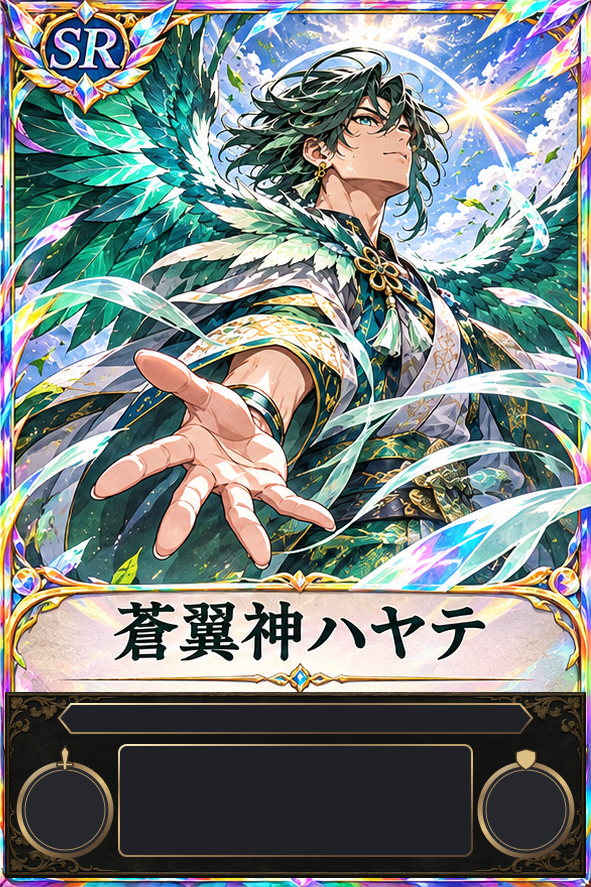
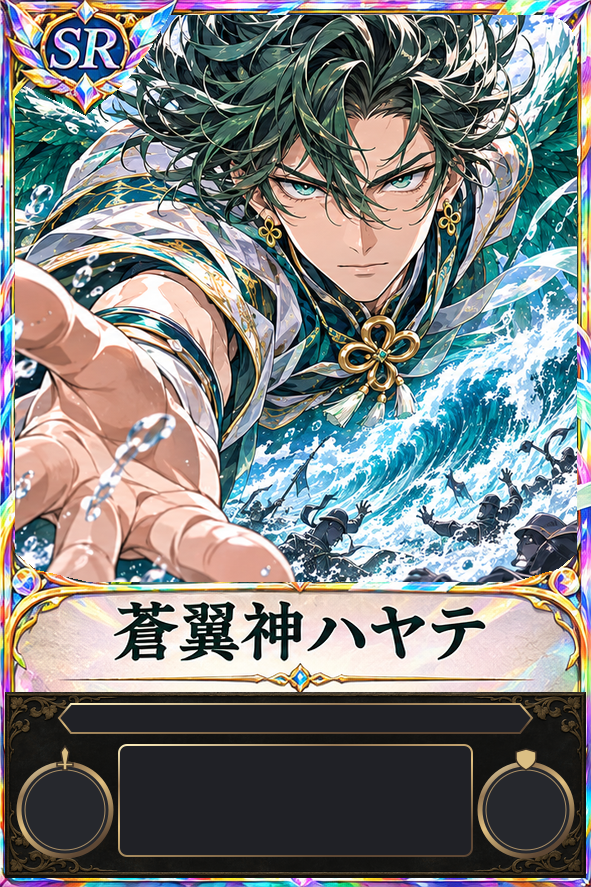
主神5柱：新イラスト15枚に差し替え、色の役割に合わせた新効果（結界・雷壁・天守／獅子王／水縛り・渦巻・天潮／芽吹き・樹脈・千樹／生贄の冥火・幽冥）
Claude-Session: https://claude.ai/code/session_01NjDefky3kmAgjasUb6fgAf

diff --git a/kamigami/godcards.js b/kamigami/godcards.js
@@ -8,31 +8,34 @@ const STAGE_RULE=[
  '進化：ゲージ{gauge}＋神力{cost}',   // N形態に表示
  '覚醒：神殿が割れた後＋神力{cost}',  // R形態に表示
  '最終形態'];                        // SR形態に表示
-// fx の意味：bolt=雷撃のダメージ（神力cost・敵1体）／heal=芽吹きの回復量（神力cost・味方1体）／fox=冥火で下げる攻撃力（神力cost・敵1体）
+// 2026-11-28 主神の効果を色の役割に合わせて書き換え（天象＝守り／烈火＝バトル／奔流＝場のコントロール／大地＝神力ブースト／神秘＝墓地）
+// 新しい fx：barrier=結界の軽減量／wall=味方全体の常時軽減／shrineWall=自分の神殿への軽減／grow=神力の最大値を増やす量／selfHeal=自分の回復量
+//  pureSecond=2回目の攻撃で相手の『攻撃されたとき』の効果を受けない／bind=水縛り／swirl=渦巻／tide=天潮／sac=生贄の冥火のダメージ／doom=幽冥
+// （旧）fx の意味：bolt=雷撃のダメージ（神力cost・敵1体）／heal=芽吹きの回復量（神力cost・味方1体）／fox=冥火で下げる攻撃力（神力cost・敵1体）
 //  overflow=攻撃の余ったダメージが敵の主神へ／regen=自分のターンのはじめに味方全体を回復／extra=攻撃した相手への追加ダメージ
 //  attacks=1ターンの攻撃回数／second=2回目の攻撃力の減少量／haste=出たターンから攻撃／pierce='hero'（主神と神殿へすり抜け）・'all'
 //  shadow=影分身（自分への攻撃を1回ダメージ0）／shadowRevive=影分身が自分のターンのはじめに復活
 const GOD_CARDS={
  2:{key:'raiga',name:'ライガ',type:'天象',stages:[
-  {rank:'N',name:'幼神ライガ',atk:3,hp:8,skill:'雷撃',cost:1,fx:{bolt:2},text:'雷撃（神力{cost}）：敵1体に{bolt}ダメージ'},
-  {rank:'R',name:'雷鼓解放ライガ',atk:4,hp:11,skill:'轟雷',cost:1,fx:{bolt:3,overflow:true},text:'轟雷：攻撃の余ったダメージは敵の主神に届く。雷撃は{bolt}ダメージ'},
-  {rank:'SR',name:'天穿雷神ライガ',atk:6,hp:14,skill:'天穿',cost:1,fx:{bolt:4,overflow:true},text:'天穿：攻撃の余ったダメージは敵の主神に届く。雷撃は{bolt}ダメージ'}]},
+  {rank:'N',name:'幼神ライガ',atk:3,hp:8,skill:'結界',cost:1,fx:{barrier:1},text:'結界（神力{cost}）：味方1体は次の相手のターンまで、受けるダメージが{barrier}減る'},
+  {rank:'R',name:'雷鼓解放ライガ',atk:4,hp:11,skill:'雷壁',cost:1,fx:{barrier:2,wall:1},text:'雷壁：味方全体が受けるダメージを{wall}減らす。結界（神力{cost}）は、味方1体の受けるダメージを{barrier}減らす'},
+  {rank:'SR',name:'天穿雷神ライガ',atk:6,hp:14,skill:'天守',cost:1,fx:{barrier:2,wall:2,shrineWall:2},text:'天守：味方と自分の神殿が受けるダメージを{wall}減らす。結界（神力{cost}）は{barrier}減らす'}]},
  5:{key:'kodama',name:'コダマ',type:'大地',stages:[
-  {rank:'N',name:'幼神コダマ',atk:2,hp:10,skill:'芽吹き',cost:1,fx:{heal:2},text:'芽吹き（神力{cost}）：味方1体の体力を{heal}回復'},
-  {rank:'R',name:'樹脈解放コダマ',atk:3,hp:13,skill:'樹脈',fx:{regen:1},text:'樹脈：自分のターンのはじめに、味方全体の体力を{regen}回復'},
-  {rank:'SR',name:'万象樹神コダマ',atk:4,hp:17,skill:'千樹',fx:{regen:2},text:'千樹：自分のターンのはじめに、味方全体の体力を{regen}回復'}]},
+  {rank:'N',name:'幼神コダマ',atk:2,hp:10,skill:'芽吹き',cost:2,fx:{grow:1,selfHeal:0},text:'芽吹き（神力{cost}）：神力を{grow}増やす'},
+  {rank:'R',name:'樹脈解放コダマ',atk:3,hp:13,skill:'樹脈',cost:2,fx:{grow:1,selfHeal:2},text:'樹脈（神力{cost}）：神力を{grow}増やし、このカードの体力を{selfHeal}回復する'},
+  {rank:'SR',name:'万象樹神コダマ',atk:4,hp:17,skill:'千樹',cost:2,fx:{grow:1,selfHeal:3},text:'千樹（神力{cost}）：神力を{grow}増やし、このカードの体力を{selfHeal}回復する'}]},
  0:{key:'kagura',name:'カグラ',type:'烈火',stages:[
   {rank:'N',name:'幼神カグラ',atk:4,hp:6,skill:'火の拳',fx:{extra:1},text:'火の拳：攻撃した相手に追加で{extra}ダメージ'},
   {rank:'R',name:'炎拳解放カグラ',atk:5,hp:8,skill:'烈火連撃',fx:{attacks:2,second:2},text:'烈火連撃：1ターンに{attacks}回攻撃できる（2回目は攻撃力−{second}）'},
-  {rank:'SR',name:'熔獅神カグラ',atk:7,hp:10,skill:'獅子王',fx:{attacks:2,extra:2},text:'獅子王：1ターンに{attacks}回攻撃できる。攻撃した相手に追加で{extra}ダメージ'}]},
+  {rank:'SR',name:'熔獅神カグラ',atk:7,hp:10,skill:'獅子王',fx:{attacks:2,pureSecond:true},text:'獅子王：{attacks}回攻撃できる。2回目の攻撃では、相手の『攻撃されたとき』に発動する効果を受けない'}]},
  3:{key:'hayate',name:'ハヤテ',type:'奔流',stages:[
-  {rank:'N',name:'幼神ハヤテ',atk:3,hp:6,skill:'そよ風',fx:{haste:true},text:'そよ風：場に出たターンから攻撃できる'},
-  {rank:'R',name:'風翼解放ハヤテ',atk:4,hp:8,skill:'風渡り',fx:{haste:true,pierce:'hero'},text:'風渡り：出たターンから攻撃できる。すり抜け（神殿を無視して主神を攻撃できる）'},
-  {rank:'SR',name:'蒼翼神ハヤテ',atk:5,hp:11,skill:'天翔',fx:{haste:true,pierce:'all'},text:'天翔：出たターンから攻撃できる。すり抜け（神殿を無視して主神を攻撃できる）'}]},
+  {rank:'N',name:'幼神ハヤテ',atk:3,hp:6,skill:'水縛り',cost:1,fx:{bind:true},text:'水縛り（神力{cost}）：敵1体は、次の相手のターンに攻撃できない'},
+  {rank:'R',name:'風翼解放ハヤテ',atk:4,hp:8,skill:'渦巻',fx:{swirl:true},text:'渦巻：自分のターン開始時、敵の仲間1体は次の相手のターンに攻撃できない'},
+  {rank:'SR',name:'蒼翼神ハヤテ',atk:5,hp:11,skill:'天潮',fx:{tide:true},text:'天潮：自分のターン開始時、相手の仲間1体を手札に戻す'}]},
  10:{key:'oboro',name:'オボロ',type:'神秘',stages:[
-  {rank:'N',name:'幼神オボロ',atk:2,hp:7,skill:'冥火',cost:1,fx:{fox:1},text:'冥火（神力{cost}）：敵1体の攻撃力を、その敵が場を離れるまで−{fox}'},
-  {rank:'R',name:'魔紋解放オボロ',atk:3,hp:9,skill:'影分身',cost:1,fx:{fox:1,shadow:true},text:'影分身：自分への攻撃を1回だけ影に受けさせる（ダメージ0）'},
-  {rank:'SR',name:'幽冥魔神オボロ',atk:4,hp:12,skill:'幽冥',cost:1,fx:{fox:2,shadow:true,shadowRevive:true},text:'幽冥：影分身が自分のターンのはじめに復活する。冥火は−{fox}'}]}
+  {rank:'N',name:'幼神オボロ',atk:2,hp:7,skill:'生贄の冥火',cost:1,fx:{sac:2},text:'生贄の冥火（神力{cost}）：自分の仲間1体と、相手のカード1体に{sac}ダメージ。自分の仲間がいないと使えない'},
+  {rank:'R',name:'魔紋解放オボロ',atk:3,hp:9,skill:'生贄の冥火',cost:1,fx:{sac:3},text:'生贄の冥火（神力{cost}）：自分の仲間1体と、相手のカード1体に{sac}ダメージ。自分の仲間がいないと使えない'},
+  {rank:'SR',name:'幽冥魔神オボロ',atk:4,hp:12,skill:'幽冥',cost:3,fx:{doom:true},text:'幽冥（神力{cost}）：相手の仲間1体を破壊する。自分の墓地の仲間1体を手札に戻す'}]}
 };
 const HERO_IDS=[2,5,0,3,10];
 const STAGE_FILES=['01-child-N.webp','02-awakened-R.webp','03-final-SR.webp'];
@@ -52,7 +55,7 @@ function gcard(id,st,live,cls='',short=false){let s=stageOf(id,st),VL=VESSEL_LAY
  return '<span class="gc '+cls+'" data-id="'+id+'" data-st="'+st+'"><img src="'+cardImg(id,st)+'" alt="'+s.name+'" draggable="false"'+(window.__lazyImg?' loading="lazy"':'')+'>'+rubyBand(s.name,true)
  +statIcon('atk',atk,weak,null,VL&&VL.outer)
  +statIcon('hp',live?Math.max(0,live.hp):s.hp,false,live?live.max:null,VL&&VL.outer)
- +'<span class="gb eff" data-k="effect" style="'+pct(B.effect)+'"><i class="fit ml">'+(short?s.skill+(s.cost&&(s.fx.bolt||s.fx.heal||s.fx.fox)&&st===0?'（神力'+s.cost+'）':''):stageText(id,st))+'</i></span>'
+ +'<span class="gb eff" data-k="effect" style="'+pct(B.effect)+'"><i class="fit ml">'+(short?s.skill+(s.cost&&!s.fx.wall?'（神力'+s.cost+'）':''):stageText(id,st))+'</i></span>'
  +'<span class="gb evo" data-k="evolution" style="'+pct(B.evolution)+'"><i class="fit one" data-r=".9">'+ruleText(st)+'</i></span></span>'}
 function placeBoxes(gc){let B=CARD_LAYOUT.safeTextBoundsPx;gc.querySelectorAll('.gb').forEach(b=>{if(B[b.dataset.k])b.setAttribute('style',pct(B[b.dataset.k]))})}
 // 文字を安全範囲に収める：箱の高さから始めて、はみ出す間は小さくする
@@ -310,7 +313,7 @@ function expInfo(k){closeGodDetail();let e=EXP_CARDS[k],ally=e.kind==='ally';
  +(CARD_TABLE[k].later?'<p class="gd-next">このカードは、今の対戦デッキにはまだ入っていません。</p>':'')+termList(e.text+(ally?'仲間':''))
  +'<button class="gd-close" onclick="closeGodDetail()">閉じる</button></div></div>';
  d.onclick=e2=>{if(e2.target===d)closeGodDetail()};document.body.appendChild(d)}
-TERMS.push(['最終決戦','神殿がすべて割れた側は、主神が攻撃の対象になる。主神の体力を0にしたら勝ち。'],['すり抜け','神殿を無視して主神を攻撃できること。風翼解放ハヤテ・蒼翼神ハヤテ、雨の間の瀬渡りのカワセミ神、疾風の忍神、水面抜きの対象。'],['破殿解放','神殿が割れたとき、そのカードをコストなしで使えること。使わなければ手札に加わる。'],['召喚酔い','場に出たターンは攻撃できない状態。次の自分のターンから攻撃できる。主神もおたがい1ターン目は攻撃できない。'],['速攻','「出たターンから攻撃できる」効果。召喚酔いにならない。'],['登場時','その仲間を場に出したとき。'],['元の値','カードに書かれている攻撃力。弱める効果などで下がっていると「元の値より低い」状態になる。']);
+TERMS.push(['最終決戦','神殿がすべて割れた側は、主神が攻撃の対象になる。主神の体力を0にしたら勝ち。'],['すり抜け','神殿を無視して主神を攻撃できること。雨の間の瀬渡りのカワセミ神、疾風の忍神、水面抜きの対象。'],['破殿解放','神殿が割れたとき、そのカードをコストなしで使えること。使わなければ手札に加わる。'],['召喚酔い','場に出たターンは攻撃できない状態。次の自分のターンから攻撃できる。主神もおたがい1ターン目は攻撃できない。'],['速攻','「出たターンから攻撃できる」効果。召喚酔いにならない。'],['登場時','その仲間を場に出したとき。'],['元の値','カードに書かれている攻撃力。弱める効果などで下がっていると「元の値より低い」状態になる。']);
 
 // ---- 初期呪文8種：枠つき完成イラスト（2026-11-25差し替え）。名前帯はアート側、コスト・効果文は既存の重ね表示で載せる ----
 const STARTER_ART={rain:'amagoi',sun:'kumobarai',bolt:'shourai',guard:'shugo',draw:'shintaku',seed:'tanemaki',mirror:'kakusei_kagami',scroll:'shini_keishou'};
@@ -352,12 +355,18 @@ function rubyBand(name,hero){let r=readingOf(name);return r?'<span class="gb rub
 
 // ==== 「器」形式の主神カード（名前・レア度・上端の札は絵に描き込み済み、数値・効果文・進化条件の欄は空欄）2026-11-27 ====
 // オボロ3形態：新しい枠の空欄に合わせて、重ね表示の位置と大きさを変える（数値・効果は変えない）
-const VESSEL_LAYOUT={10:{
- safe:{effect:[146,742,304,80],evolution:[96,697,404,18]},
- outer:{attack:[36,744,92,92],health:[466,744,92,92]}}};
+// 2026-11-28 主神15枚を新しい絵に差し替え。5柱とも空欄が標準のレイアウト（cards/layout.json）と一致したので、オボロ専用の位置は外した
+const VESSEL_LAYOUT={};
 // 描き直しのとき、読み込み済みのカード絵（<img>）を使い回す（黒い一瞬・再読み込みを防ぐ。図鑑・デッキ編成用）
 function withImgReuse(fn){return function(){let old=new Map();for(const im of document.querySelectorAll('.gc>img')){if(!im.complete||!im.naturalWidth)continue;let k=im.getAttribute('src');if(!old.has(k))old.set(k,[]);old.get(k).push(im)}
  let r=fn.apply(this,arguments);if(old.size)for(const im of document.querySelectorAll('.gc>img')){let L=old.get(im.getAttribute('src'));if(L&&L.length){let o=L.shift();if(o!==im&&!o.isConnected){for(const at of im.attributes)if(at.name!=='src'&&o.getAttribute(at.name)!==at.value)o.setAttribute(at.name,at.value);im.replaceWith(o)}}}return r}}
 
 // 図鑑・デッキ編成を描くときだけ、画面外の絵は後から読む（対戦中は黒く見えるので使わない）
 function withLazy(fn){return function(){window.__lazyImg=true;try{return fn.apply(this,arguments)}finally{window.__lazyImg=false}}}
+
+// 2026-11-28 主神の新しい効果の用語
+TERMS.push(['結界','味方1体が、次の相手のターンが終わるまで、受けるダメージが減る。仲間・主神どちらにも使える。'],
+ ['水縛り','その神は、次の相手のターンに攻撃できない。'],
+ ['墓地','倒れた自分の仲間や、使った呪文が置かれる場所（対戦中だけ）。場の「墓地」をタップすると中身を見られる。'],
+ ['手札に戻す','場の仲間を、持ち主の手札に戻すこと。受けていたダメージや強化はなくなる。'],
+ ['神力を1増やす','神力の最大値が1増える。毎ターンの始めに回復する量も、この試合のあいだずっと1増える。']);

diff --git a/kamigami/arena.js b/kamigami/arena.js
@@ -679,3 +679,111 @@ document.addEventListener('DOMContentLoaded',()=>{if(typeof home==='function'&&!
 {const fc=finalCheck;let wait=null;finalCheck=function(force){if(!force&&!calm()&&subLog.length&&!ending&&[p,c].some(s=>s&&!s.shrines.length&&!s.finalShown)){if(!wait)wait=setTimeout(()=>{wait=null;finalCheck(true)},1600);return}
  let before=[p,c].map(s=>s&&s.finalShown);fc();if(!ending&&[p,c].some((s,i)=>s&&s.finalShown&&!before[i]))bgmFinal()}}
 {const sf=subFx;subFx=async function(){let r=await sf.apply(this,arguments);try{if(!ending&&!document.querySelector('.resultscreen'))finalCheck()}catch(e){}return r}}
+
+// ==== 主神の新しい効果（2026-11-28）：天象＝守り／烈火＝バトル／奔流＝場のコントロール／大地＝神力ブースト／神秘＝墓地 ====
+// 数値は godcards.js の GOD_CARDS（fx）だけで持つ。ここは仕組みだけ
+const ownerOf=v=>[p,c].find(s=>s&&s.units&&s.units.includes(v));
+// ダメージ軽減：ライガの常時軽減（雷壁・天守）＋結界（その味方1体、張った側の次のターン開始まで）
+function dmgCut(v){let s=ownerOf(v);if(!s)return 0;return (heroFx(s).wall||0)+(v.barrierN||0)}
+function cutName(v){let s=ownerOf(v),x=s?heroFx(s):{};return v.barrierN&&!x.wall?'結界':x.shrineWall?'天守':x.wall?(v.barrierN?'結界・雷壁':'雷壁'):'結界'}
+let zeroWhy='';
+{const h0=hurt;hurt=function(v,n){if(n>0){let cut=dmgCut(v);if(cut){let b=n;n=Math.max(0,n-cut);if(n===0){zeroWhy=cutName(v);return 0}}}return h0.call(this,v,n)}}
+// 攻撃の解決（軽減・天守・獅子王を入れた版。それ以外は元の処理と同じ）
+resolveStrike=function(f,u,d,v){let x=fxOf(f,u),wasWeak=v&&weakened(v)?Math.min(v.weak,v.atk):0;u.att=(u.att||0)+1;u.used=u.att>=maxAttacks(f,u)||!v||!!v.hero;let bonus=f.burst?1:0;f.burst=false;f.overflowHit=null;let hit=false;
+ let pow=atkOf(u)+bonus+(u.id==='earth-1'&&u.hp>=u.max?1:0)-(u.att===2&&x.second?x.second:0);pow=Math.max(0,pow);
+ // 獅子王：2回目の攻撃では、相手の『攻撃されたとき』に発動する効果を受けない（今のカードに該当する効果はない。追加されたら pure の間は発動させない）
+ const pure=!!(x.pureSecond&&u.att===2);f.pureHit=pure;
+ if(v){let dmg=pow+(x.extra||0),note='';zeroWhy='';
+  let cut=dmg>0?dmgCut(v):0;if(cut){let b=dmg;dmg=Math.max(0,dmg-cut);note='（'+cutName(v)+'で−'+(b-dmg)+'）';if(!dmg)zeroWhy=cutName(v)}
+  if(v.shadow&&dmg>0){v.shadow=false;dmg=0;note='（影分身で0）'}else if(v.ward&&dmg>0){v.ward=false;dmg=0;note='（守護で0）';zeroWhy='守護'}
+  v.hp-=dmg;hit=dmg>0;if(dmg>0)v.hitThisTurn=true;
+  let ca=hurt(u,atkOf(v));if(!ca&&atkOf(v)>0)note+=dmgCut(u)>=atkOf(v)?'（'+cutName(u)+'で反撃0）':'（守護で反撃0）';latest=names[u.id]+' → '+names[v.id]+'　'+dmg+'ダメージ・反撃 '+ca+note;f.hitInfo={v:dmg,u:ca};if(ca>0)u.hitThisTurn=true;settle(d,f)}
+ else{if(d.shrines.length){let sw=heroFx(d).shrineWall||0;
+   if(sw&&pow-sw<=0){zeroWhy='天守';latest='天守！ '+names[u.id]+'の攻撃（'+pow+'）を、神殿が受け止めた（−'+sw+'）'}
+   else{let lost=d.shrines.splice(0,1+bonus);d.broken=lost;d.shrineBroken=true;hit=true;latest=names[u.id]+'が神殿を破壊！'+(sw?'（天守−'+sw+'）':'');shrineLost(d)}}
+  else{ending=f===p?'勝利':'敗北';hit=true;lastReward=grantReward(f===p)}}
+ if(u.hero&&hit&&f.stage===0)f.gauge=Math.min(ASCEND.evolve.gauge,f.gauge+1);if(!ending)afterStrike(f,u,d,v,wasWeak);attacker=u.used||u.hp<=0?-1:attacker}
+// 0ダメージの吹き出し：理由（結界・雷壁・天守・守護）を出す
+{const pp=pop;pop=function(t){if((t==='影分身'||t==='守護')&&zeroWhy){arguments[0]=zeroWhy;zeroWhy=''}return pp.apply(this,arguments)}}
+// すり抜け：主神ハヤテは持たなくなった（仲間カードのすり抜けは残す）
+t_pierce=function(f,u){return !!u&&((u.id==='water-2'&&weather==='雨')||u.id==='water-6'||!!u.pierce)};
+
+// ---- 主神の技（1ターンに1回、神力を払う）----
+skillOf=function(f){let h=heroOf(f);if(!h||!GOD_CARDS[f.id])return null;let s=stageOf(f.id,f.stage),x=s.fx,cost=s.cost||1;
+ if(x.barrier)return {kind:'barrier',name:'結界',n:x.barrier,cost,side:'ally'};
+ if(x.bind)return {kind:'bind',name:s.skill,cost,side:'foe'};
+ if(x.grow)return {kind:'grow',name:s.skill,n:x.grow,heal:x.selfHeal||0,cost,side:'self'};
+ if(x.sac)return {kind:'sac',name:s.skill,n:x.sac,cost,side:'ally'};
+ if(x.doom)return {kind:'doom',name:s.skill,cost,side:'foe'};
+ return null};
+canSkill=function(f){let k=skillOf(f);if(!k||f.skillUsed||f.mp<k.cost)return false;let d=foeOf(f);
+ if(k.kind==='sac')return mates(f).length>0&&d.units.length>0;if(k.kind==='doom')return mates(d).length>0;return true};
+const isAI=f=>f!==p||!!window.__autoP;
+let aiPhase='pre';
+useSkill=async function(f,v){let k=skillOf(f),d=foeOf(f);if(!k||!canSkill(f))return;
+ if(isAI(f)){let plan=aiSkillPlan(f,k,aiPhase);if(plan)await runSkill(f,k,plan);return}
+ if(k.kind==='grow')return runSkill(f,k,{});
+ if(k.kind==='sac'){if(!skillMode||!skillMode.sacUid){if(!v||v.hero||!f.units.includes(v)){latest='生贄にする自分の仲間を選んでください';render();return}
+   skillMode={...k,side:'foe',sacUid:v.uid,step:2};latest=names[v.id]+'を生贄に。ダメージを与える相手のカードを選んでください';render();return}
+  let mate=f.units.find(u=>u.uid===skillMode.sacUid);if(!mate||!v||!d.units.includes(v)){skillMode=null;render();return}return runSkill(f,k,{mate,t:v})}
+ if(k.kind==='doom'){if(!v||v.hero||!d.units.includes(v)){latest='破壊する相手の仲間を選んでください';render();return}return runSkill(f,k,{t:v})}
+ if(k.kind==='barrier'){if(!v||!f.units.includes(v))return;return runSkill(f,k,{t:v})}
+ if(k.kind==='bind'){if(!v||!d.units.includes(v))return;return runSkill(f,k,{t:v})}};
+// 墓地の仲間から手札に戻す1枚（コストの高い順→攻撃力の高い順）
+function graveBest(f){let L=(f.grave||[]).filter(k=>isSum(k));if(!L.length)return null;return L.sort((a,b)=>cardCost(sumKeyId(b))-cardCost(sumKeyId(a))||(gods[sumKeyId(b)]||[0])[0]-(gods[sumKeyId(a)]||[0])[0])[0]}
+function sumKeyId(k){let m=/^g(\d+)$/.exec(k);return m?+m[1]:k}
+async function skillFx(el,kind,label,cls,n){if(!el||calm())return;let r=body(el,.45);burst(kind,r.x,r.y);if(label)pop(label,r.x,body(el,.2).y,n||1,cls||'');await pause(420)}
+async function runSkill(f,k,P){let d=foeOf(f);f.mp-=k.cost;f.skillUsed=true;skillMode=null;let wasBusy=busy;busy=true;render();
+ const el=u=>u&&document.getElementById('u'+u.uid);
+ if(k.kind==='barrier'){let t=P.t;t.barrierN=Math.max(t.barrierN||0,k.n);latest='結界！ '+names[t.id]+'は次の相手のターンまで、受けるダメージ−'+k.n;sfx('summon');await skillFx(el(t),'guard','結界 −'+k.n,'guard')}
+ else if(k.kind==='bind'){let t=P.t;t.bindNext=true;latest=k.name+'！ '+names[t.id]+'は次の相手のターンに攻撃できない';await skillFx(el(t),'water','水縛り','guard')}
+ else if(k.kind==='grow'){let h=heroOf(f);f.max+=k.n;f.mp+=k.n;let b=h.hp;if(k.heal)h.hp=Math.min(h.max,h.hp+k.heal);let up=h.hp-b;if(up>0)healed(f);
+  latest=k.name+'！ 神力の最大値+'+k.n+'（'+f.max+'）'+(up>0?'　'+names[h.id]+'の体力を'+up+'回復':'');sfx('summon');await skillFx(el(h),'leaf','神力 +'+k.n,'heal');if(up>0&&!calm()){let r=body(el(h),.3);pop('+'+up,r.x,r.y,1,'heal');drain(el(h),h);await pause(300)}}
+ else if(k.kind==='sac'){let m=P.mate,t=P.t,e1=el(m),e2=el(t);let n1=hurt(m,k.n),w1=zeroWhy;zeroWhy='';let n2=hurt(t,k.n),w2=zeroWhy;zeroWhy='';
+  latest=k.name+'！ '+names[m.id]+'に'+n1+'、'+names[t.id]+'に'+n2+'ダメージ';
+  if(!calm()){sfx('hit');for(const [e,n,u,w] of [[e1,n1,m,w1],[e2,n2,t,w2]])if(e){let r=body(e,.45);burst('bolt',r.x,r.y);struck(e);pop(n?'−'+n:(w||'守護'),r.x,body(e,.2).y,Math.max(1,n),n?'':'guard');drain(e,u);if(u.hp<=0&&!(u.hero&&ownerOf(u)&&ownerOf(u).shrines.length))e.classList.add('ko')}await pause(560)}
+  settle(f,d);await subFx()}
+ else if(k.kind==='doom'){let t=P.t,e=el(t);t.ward=false;t.hp=0;let back=graveBest(f);
+  if(!calm()&&e){sfx('hit');let r=body(e,.45);burst('water',r.x,r.y);struck(e);pop('破壊',r.x,body(e,.2).y,3);e.classList.add('ko');await pause(560)}
+  settle(d);latest=k.name+'！ '+names[t.id]+'を破壊';
+  if(back){let i=f.grave.lastIndexOf(back);f.grave.splice(i,1);f.hand.push(back);latest+='。墓地の'+cardLabel(back)+'を手札に戻した'}else latest+='（墓地に仲間がいないので、手札に戻すカードはなし）'}
+ busy=wasBusy;render();await shrineReveal(f,null,d)}
+// AIの使い方：pre＝ターンのはじめ（召喚前）、post＝攻撃の直前（召喚後）
+function aiSkillPlan(f,k,ph){let d=foeOf(f),foeAtk=d.units.some(u=>atkOf(u)>0);
+ if(k.kind==='grow')return f.max<9?{}:null;
+ if(k.kind==='doom'){let L=mates(d).sort((a,b)=>(atkOf(b)*2+b.hp)-(atkOf(a)*2+a.hp));return L.length?{t:L[0]}:null}
+ if(ph==='pre')return null;
+ if(k.kind==='barrier'){if(!foeAtk)return null;let h=heroOf(f),L=[...f.units].sort((a,b)=>(b.hero?1:0)-(a.hero?1:0)||atkOf(b)-atkOf(a));
+  let t=(!f.shrines.length||h.hp<=Math.max(...d.units.map(atkOf))+2)?h:(L.find(u=>!u.hero&&u.hp<=Math.max(...d.units.map(atkOf)))||h);return {t}}
+ if(k.kind==='bind'){let t=[...d.units].filter(u=>!u.bindNext&&atkOf(u)>=2).sort((a,b)=>atkOf(b)-atkOf(a))[0];return t?{t}:null}
+ if(k.kind==='sac'){let n=k.n,kill=mates(d).filter(u=>!u.ward&&u.hp<=n+0-dmgCut(u)+0&&n>dmgCut(u)).sort((a,b)=>atkOf(b)-atkOf(a));
+  let t=kill[0]||(!d.shrines.length&&!heroOf(d).ward?heroOf(d):null);if(!t)return null;
+  let my=mates(f).sort((a,b)=>((b.hp>n)?1:0)-((a.hp>n)?1:0)||atkOf(a)-atkOf(b));let m=my[0];if(!m)return null;
+  if(m.hp<=n&&!t.hero&&atkOf(m)>atkOf(t))return null;return {mate:m,t}}
+ return null}
+// 召喚のあと、攻撃の直前にもう一度だけ技を考える
+{const aa=aiAttack;aiAttack=async function(f){if(!ending&&canSkill(f)){aiPhase='post';try{await useSkill(f,null)}finally{aiPhase='pre'}}if(ending)return;return aa.apply(this,arguments)}}
+// 技のボタン：芽吹き系は対象を選ばずにすぐ使う
+{const ha=heroActs;heroActs=function(){let o=ha.apply(this,arguments),k=skillOf(p);if(k&&k.kind==='grow')o=o.replace("skillMode=skillOf(p);attacker=-1;render()","useSkill(p,heroOf(p))");
+ if(k&&k.kind==='sac'&&canSkill(p))o=o.replace(k.name+' · 神力'+k.cost,k.name+' · 神力'+k.cost+'（自分の仲間→相手を選ぶ）');return o}}
+// ---- ターン開始：渦巻・天潮（ハヤテ）／結界と水縛りの期限 ----
+function threat(u){return atkOf(u)*2+u.hp+(cardCost(typeof u.id==='number'?u.id:u.id)||0)}
+let startNotes=[];
+{const ts=turnStart;turnStart=function(f){let r=ts.apply(this,arguments),x=heroFx(f),o=foeOf(f);if(!heroOf(f)||!o)return r;
+ if(x.swirl){let t=mates(o).filter(u=>!u.bindNext).sort((a,b)=>atkOf(b)-atkOf(a))[0];if(t){t.bindNext=true;startNotes.push({uid:t.uid,label:'渦巻',text:'渦巻：'+names[t.id]+'は次の相手のターンに攻撃できない'})}}
+ if(x.tide){let t=mates(o).sort((a,b)=>threat(b)-threat(a))[0];if(t){o.units=o.units.filter(u=>u!==t);o.hand.push(handKey(t.id));startNotes.push({side:o,label:'手札へ',text:'天潮：'+names[t.id]+'を'+(o===p?'あなた':'相手')+'の手札に戻した'})}}
+ return r}}
+{const b2=begin;begin=function(f){if(f&&f.units)for(const u of f.units)u.barrierN=0;let o=foeOf(f);if(o)for(const u of o.units)u.bound=false;
+ let r=b2.apply(this,arguments);for(const u of f.units)if(u.bindNext){u.bindNext=false;u.used=true;u.bound=true}
+ if(startNotes.length){let N=startNotes;startNotes=[];queueMicrotask(()=>{latest+=(latest?'　':'')+N.map(n=>n.text).join('　')});
+  if(!calm())setTimeout(()=>{for(const n of N){let e=n.uid?document.getElementById('u'+n.uid):document.getElementById('shrine'+(n.side&&n.side.id));if(e){let r=body(e,.4);pop(n.label,r.x,r.y,1,'guard')}}},120)}
+ return r}}
+// 状態の表示：結界・水縛り（場のカードの帯と、詳細の状態欄）
+{const us=unitStatus;unitStatus=function(f,u){let t=us.apply(this,arguments),cut=dmgCut(u);
+ if(u.barrierN)t.unshift('結界：受けるダメージ−'+u.barrierN+'（次の相手のターンまで）');if(heroFx(f).wall)t.unshift((heroFx(f).shrineWall?'天守':'雷壁')+'：受けるダメージ−'+heroFx(f).wall);
+ if(u.bound)t.unshift('水縛り：このターンは攻撃できない');if(u.bindNext)t.unshift('水縛り：次のターンは攻撃できない');return t}}
+{const rr=render;render=function(){let r=rr.apply(this,arguments);try{for(const s of [p,c]){if(!s)continue;for(const u of s.units){let e=document.getElementById('u'+u.uid);if(!e)continue;
+  let tags=[];if(u.barrierN)tags.push('<em class="ribbon barrier">結界−'+u.barrierN+'</em>');if(u.bound||u.bindNext)tags.push('<em class="ribbon bind">水縛り</em>');if(tags.length&&!e.querySelector('.ribbon.barrier,.ribbon.bind'))e.insertAdjacentHTML('beforeend','<span class="ribbons2">'+tags.join('')+'</span>')}}
+  // 対象にできない主神は「対象」表示を外す（生贄の冥火の1体目・幽冥）
+  if(skillMode&&!skillMode.spell&&(skillMode.kind==='doom'||(skillMode.kind==='sac'&&!skillMode.sacUid))){let side=skillMode.kind==='doom'?c:p,h=heroOf(side),e=h&&document.getElementById('u'+h.uid);if(e){e.classList.remove('target');let m=e.querySelector('.mark');if(m)m.innerHTML=''}}
+ }catch(e){console.warn(e)}return r}}

diff --git a/kamigami/godcards.css b/kamigami/godcards.css
@@ -572,3 +572,8 @@ small.al-ruby{margin:0 0 1px}
 .arena.duel .gc,.handzoom .gc{background:#0b1430 url(cards/card_back.webp) center/100% 100% no-repeat}
 .arena.duel .gc>img.ld,.handzoom .gc>img.ld{opacity:0}
 .arena.duel .gc>img,.handzoom .gc>img{transition:opacity .22s ease-out}
+/* 2026-11-28 主神の新効果：結界・水縛りの帯 */
+.duel .ribbons2{position:absolute;left:-5px;top:30px;z-index:3;display:flex;flex-direction:column;gap:3px;pointer-events:none}
+.duel .ribbons2 .ribbon{position:static}
+.duel .ribbon.barrier{background:#c9a227;color:#1b1406}
+.duel .ribbon.bind{background:#2b8fa8}
